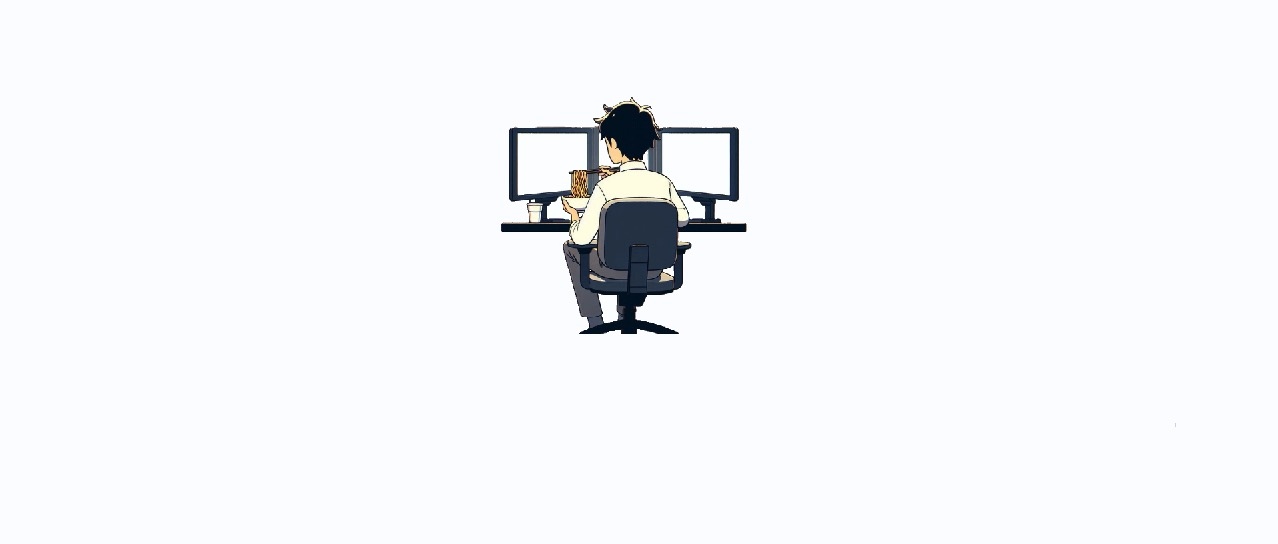
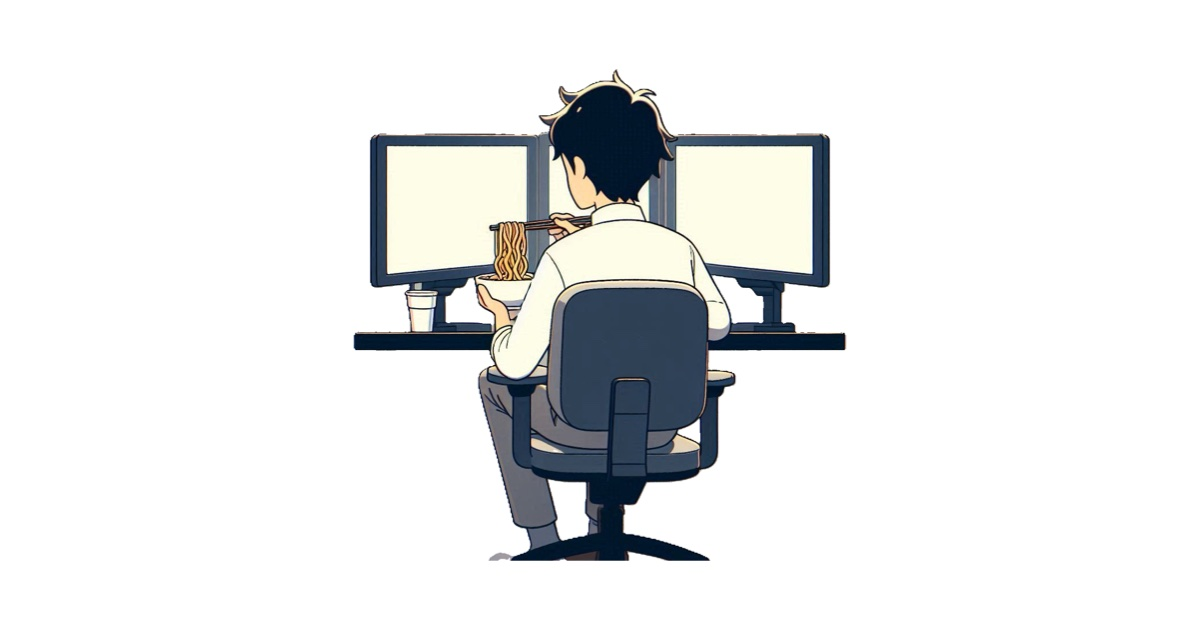
T23: Resize the share image to 1200x630
Link previews expect 1.91:1; the old 1278x544 image was cropped or
letterboxed. Rebuilt from the full-size illustration
(Assets/Hero/heroImage_noBackground.png), centred on white.

Changed region(s): [[0.2775, 0.125, 0.7092, 0.9062]]

diff --git a/public/index.html b/public/index.html
@@ -15,8 +15,8 @@
     <meta property="og:description" content="Lauden Eller is a software engineer and CFA candidate working with ESG data." />
     <meta property="og:url" content="https://laudeneller.com/" />
     <meta property="og:image" content="https://laudeneller.com/og-image.jpg" />
-    <meta property="og:image:width" content="1278" />
-    <meta property="og:image:height" content="544" />
+    <meta property="og:image:width" content="1200" />
+    <meta property="og:image:height" content="630" />
     <meta property="og:image:alt" content="Illustration of a developer eating noodles at a desk with three monitors" />
     <meta name="twitter:card" content="summary_large_image" />
     <meta name="twitter:title" content="Lauden Eller — Software Engineer" />
